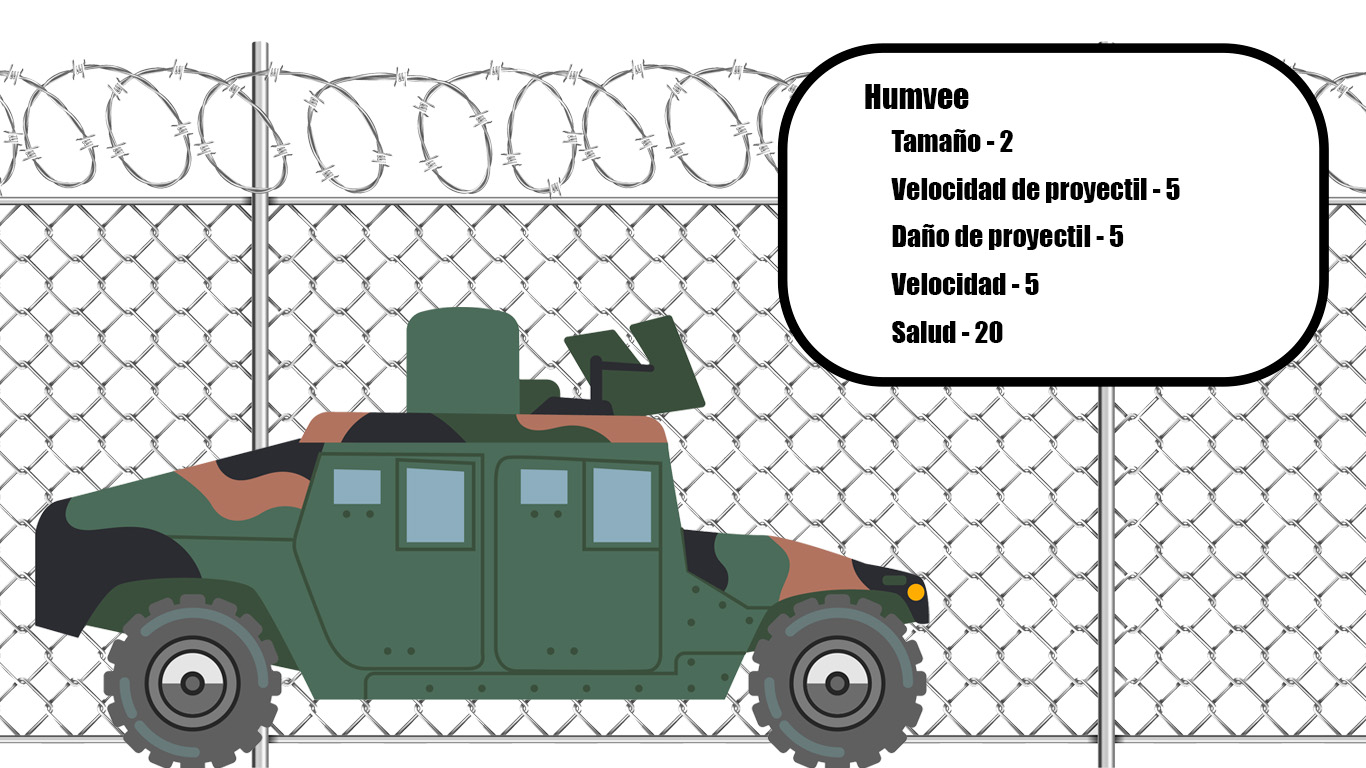
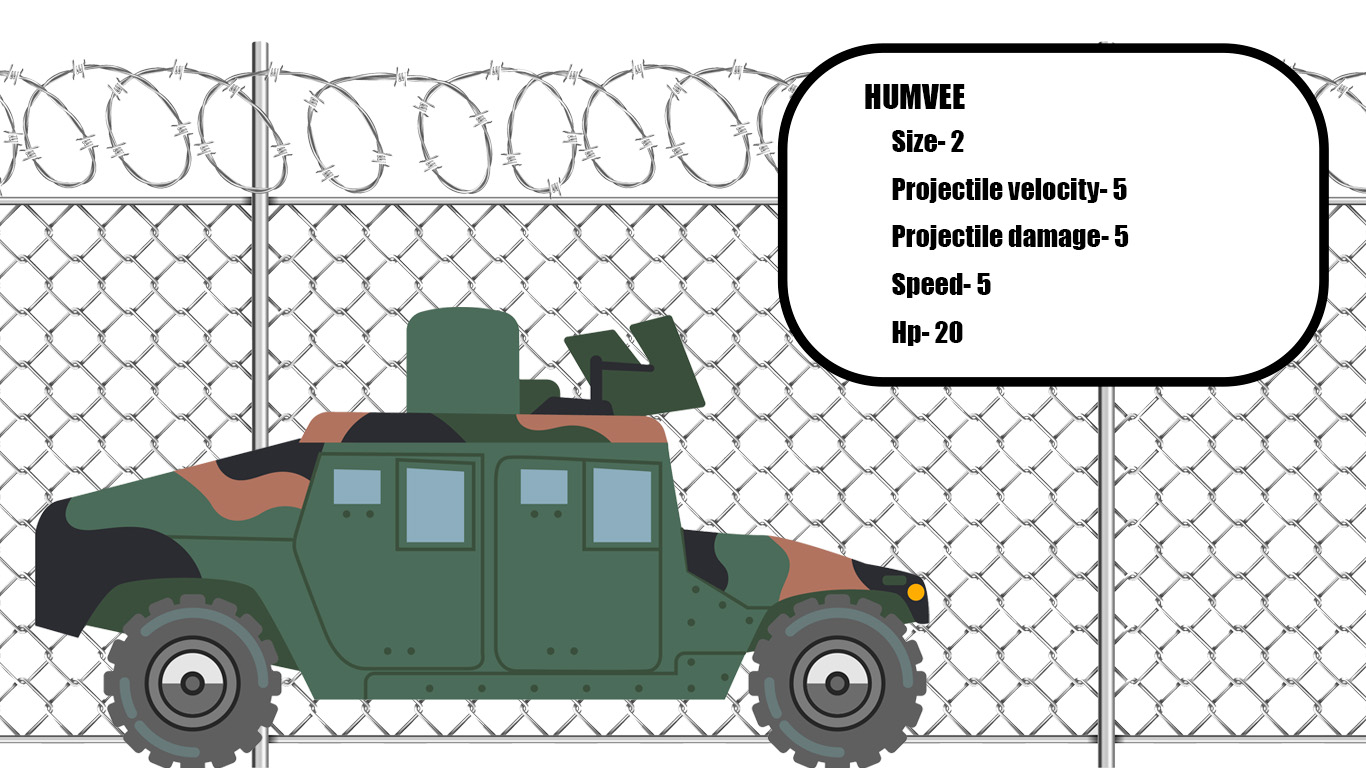
small bugs

Changed region(s): [[0.6457, 0.0938, 0.8609, 0.4688]]

diff --git a/client/src/infantry/components/gameInfantry.component.js b/client/src/infantry/components/gameInfantry.component.js
@@ -309,8 +309,8 @@ export default class GameInfantry extends Component {
   
             </div>
             <p class="text-center">{this.getMessageTurn()}</p>
-            <div class="row align-items-center">
-              <div class="col"></div>
+            <div class="row ">
+          
               <div class="container col">
                 {/* Formulario para que el usuario elija que accion desea realizar */}
                 <form onSubmit={ev => {
@@ -322,8 +322,8 @@ export default class GameInfantry extends Component {
                 }} >
                   {/* botones para seleccionar la direccion */}
                   <br></br>
-                  <div class="form-group">
-                    <div class="row align-items-start">
+                  <div class="form-group ">
+                    <div class="row justify-content-center">
                       <div>
                         <input type="radio" class="btn-check col" name="direction" id="north west" autocomplete="off" checked value={NORTH_WEST} />
                         <label class="btn btn-secondary col" for="north west">North west</label>
@@ -339,21 +339,24 @@ export default class GameInfantry extends Component {
                       </div>
                     </div>
 
-                    <div class="row align-items-center">
-                      <div class="position-absolute top-50 start-50 translate-middle">
-                        <input type="radio" class="btn-check" name="direction" id="west" autocomplete="off" checked value={WEST} />
+                    <div class="row justify-content-center">
+                      <div class="mx-5">
+                        <input type="radio" class="btn-check mx-3" name="direction" id="west" autocomplete="off" checked value={WEST} />
                         <label class="btn btn-secondary" for="west">West</label>
+                      </div>                      
+                      <div className="col-1">
+
                       </div>
-                      <div class="col"></div>
-                      <div class="col-7">
-                        <div class="col aling-self-start">
-                          <input type="radio" class="btn-check col-md-4 aling-self-end" name="direction" id="east" autocomplete="off" checked value={EAST} />
-                        </div>
-                        <label class="btn btn-secondary col-3" for="east">East</label>
+                      <div class="mx-5">
+                          
+                        <label class="btn btn-secondary" for="east">East</label>
+                        <input type="radio" class="btn-check mx-3" name="direction" id="east" autocomplete="off" checked value={EAST} />
                       </div>
+                        
+                      
                     </div>
 
-                    <div class="row align-items-end">
+                    <div class="row justify-content-center">
                       <div>
                         <label class="btn btn-secondary col" for="south west" >South west</label>
                         <input type="radio" class="btn-check col" name="direction" id="south west" autocomplete="off" checked value={SOUTH_WEST} />
@@ -370,27 +373,29 @@ export default class GameInfantry extends Component {
                   </div>
                   {/* botones para seleccionar la accion */}
                   <br></br>
-                  
-                  <div class="form-check align-items-end col">
-                    <input class="form-check-input" type="radio" name="action" id="move" value={"move"} />
-                    <label class="form-check-label text-white" for="move">
-                      Move
-                      <select class="form-select" id="sel1" name="velocity">
-                        {this.optionsRender()}
-                      </select>
-                    </label>
-                    <input class="form-check-input" type="radio" name="action" id="shoot" value={"shoot"} />
-                    <label class="form-check-label text-white" for="shoot">
-                      Shoot
-                    </label>
+                  <div className="row justify-content-center">
+                    <div class="form-check">
+                      <input class="form-check-input" type="radio" name="action" id="move" value={"move"} />
+                      <label class="form-check-label text-white" for="move">
+                        Move
+                        <select class="form-select" id="sel1" name="velocity">
+                          {this.optionsRender()}
+                        </select>
+                      </label>
+                      <input class="form-check-input" type="radio" name="action" id="shoot" value={"shoot"} />
+                      <label class="form-check-label text-white" for="shoot">
+                        Shoot
+                      </label>
+                    </div>
                   </div>
+                  
                   <br></br><br></br><br></br>
                   <div class="text-center position-absolute top-50 start-50 translate-middle col">
                     <button type="submit" class="btn btn-outline-light" disabled={this.state.finished_round || this.state.game.turn !== AuthService.getCurrentUser().sub}>Next turn</button>
                   </div>
                 </form>
               </div>
-              <div class="col"></div>
+              
             </div>
             <p class="col"><GameOver game_id={this.state.game_id} player1_id={this.state.game["id_user1"]} player2_id={this.state.game["id_user2"]}></GameOver></p>
           </div>    

diff --git a/client/src/infantry/pages/ChooseCharacter.js b/client/src/infantry/pages/ChooseCharacter.js
@@ -42,13 +42,13 @@ export default function ChooseCharacter(){
     const validation = () => {
 
         if(posX == null || posY == null || posX == "" || posY == ""){
-            alert("Debes seleccionar las posiciones")
+            alert("You must select the positions")
             setType(null)
             return false
         }
 
         if(0 > posY || posY > 10){
-            alert("Su posicion en Y debe ser entre 0 o 10")
+            alert("Its position in Y must be between 0 or 10")
             setType(null)
             return false
 
@@ -57,7 +57,7 @@ export default function ChooseCharacter(){
             if(game.id_user1 === host.sub){
 
                 if(0 > posX || posX > 9){
-                    alert("Su posicion en X debe ser entre 0 o 9")
+                    alert("Its position in X must be between 0 or 9")
                     setType(null)
                     return false
                 }
@@ -65,7 +65,7 @@ export default function ChooseCharacter(){
             if(game.id_user2 === host.sub){
                 
                 if(11 > posX || posX > 20){
-                    alert("Su posicion en X debe ser entre 11 o 20")
+                    alert("Its position in X must be between 11 or 20")
                     setType(null)
                     return false
                 }
@@ -125,7 +125,7 @@ export default function ChooseCharacter(){
                                     <button type="button" className="btn btn-secondary mt-5 btn-lg" onClick={() => event(3)}>TANK</button>
                                 </div>
                                 <div className="carousel-item">
-                                    <img src="../ARTILLERY.jpg" className="d-block w-100" alt="..."></img>
+                                    <img src="../Artillery.jpg" className="d-block w-100" alt="..."></img>
                                     <button type="button" className="btn btn-secondary mt-5 btn-lg" onClick={() => event(4)}>ARTILLERY</button>
                                 </div>
                             </div>
